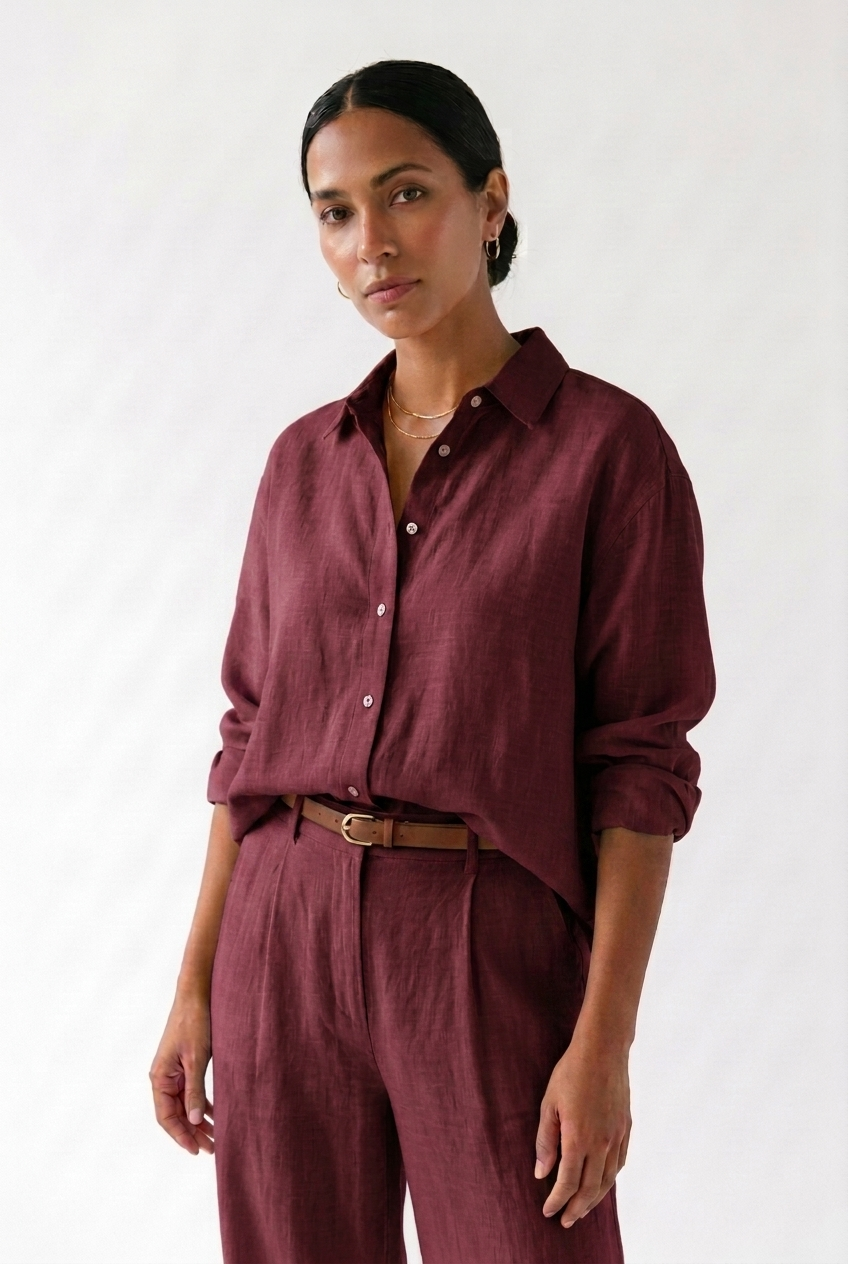
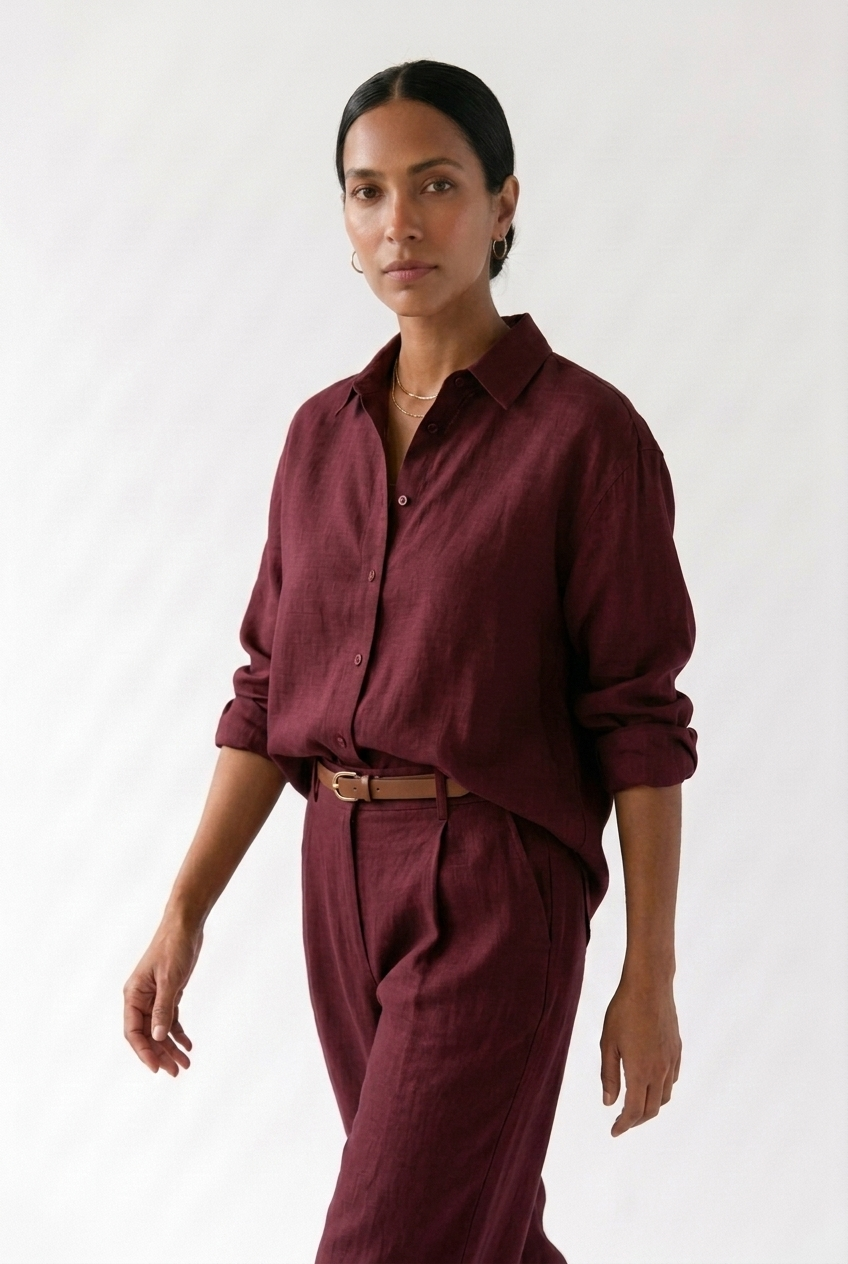
Add White color, distinct poses per color, simplify palette
Color palette is now Ivory/White/Navy/Burgundy (removed Emerald and
Gold, added true White distinct from cream Ivory). Navy and Burgundy
now use their own distinct poses instead of the same stance recolored,
matching how premium fashion sites (Nora, Zavi) shoot each colorway.

Also fixed an identity-drift issue caught during this batch -- one
generation drifted to a different face/hairstyle entirely -- and
locked explicit identity guardrails in brand-assets/photorealism-
baseline-prompt.md so it's caught earlier next time.

Changed region(s): [[0.1226, 0.0309, 0.8585, 1.0]]

diff --git a/website/src/data/catalog.ts b/website/src/data/catalog.ts
@@ -43,6 +43,7 @@ export const catalog: CatalogItem[] = [
     backImage: "/catalog/oversized-shirt-back.png",
     colorImages: {
       Ivory: { front: "/catalog/oversized-shirt-front.png", back: "/catalog/oversized-shirt-back.png" },
+      White: { front: "/catalog/oversized-shirt-white-front.png", back: "/catalog/oversized-shirt-white-back.png" },
       Navy: { front: "/catalog/oversized-shirt-navy-front.png", back: "/catalog/oversized-shirt-navy-back.png" },
       Burgundy: { front: "/catalog/oversized-shirt-burgundy-front.png", back: "/catalog/oversized-shirt-burgundy-back.png" },
     },
@@ -75,6 +76,7 @@ export const catalog: CatalogItem[] = [
     backImage: "/catalog/wide-leg-trousers-ivory-back.png",
     colorImages: {
       Ivory: { front: "/catalog/wide-leg-trousers-ivory-front.png", back: "/catalog/wide-leg-trousers-ivory-back.png" },
+      White: { front: "/catalog/wide-leg-trousers-white-front.png", back: "/catalog/wide-leg-trousers-white-back.png" },
       Navy: { front: "/catalog/wide-leg-trousers-navy-front.png", back: "/catalog/wide-leg-trousers-navy-back.png" },
       Burgundy: { front: "/catalog/wide-leg-trousers-burgundy-front.png", back: "/catalog/wide-leg-trousers-burgundy-back.png" },
     },

diff --git a/website/src/data/colors.ts b/website/src/data/colors.ts
@@ -5,11 +5,9 @@ export type ColorOption = {
 
 export const colors: ColorOption[] = [
   { name: "Ivory", hex: "#f5f0e8" },
-  { name: "Emerald", hex: "#1a5c40" },
-  { name: "Black", hex: "#1a1a1a" },
+  { name: "White", hex: "#fafafa" },
   { name: "Navy", hex: "#0a2d4a" },
   { name: "Burgundy", hex: "#4a1a2d" },
-  { name: "Gold", hex: "#c9a84c" },
 ];
 
 export const sizes = ["XS", "S", "M", "L", "XL", "XXL"] as const;
